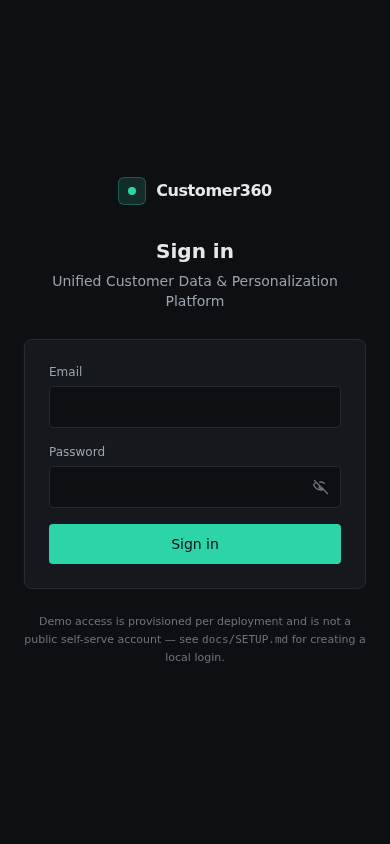
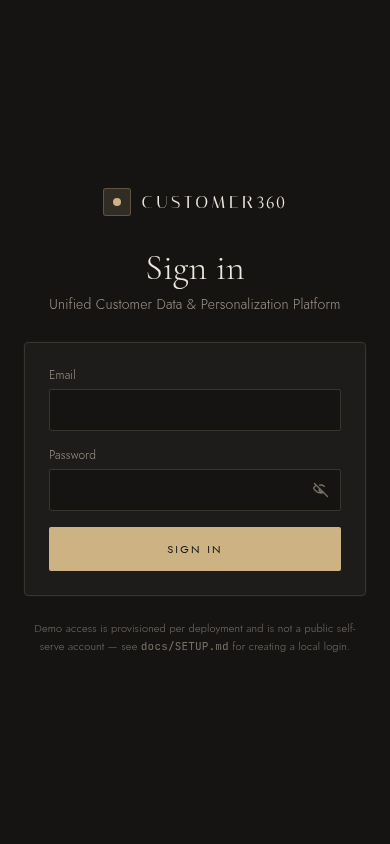
docs+frontend: refresh README screenshots; self-host fonts; typography fixes
Screenshots: all 10 recaptured from the production build talking to the
real FastAPI backend and the real generated dataset in Postgres (no
mocked responses). Adds the Intelligence Assistant (honest "no LLM
configured" state with real tool calls and a retrieved segment
definition) and mobile login to the README table. Customer 360 now
shows a real three-source identity merge.

Frontend fixes found while capturing with the real fonts:
- Fonts are bundled via @fontsource (Italiana, Cormorant, Jost,
  JetBrains Mono) instead of loaded from Google Fonts at runtime.
- Stat/figure numbers use lining figures; Tailwind's per-element reset
  was cancelling the inherited setting, giving old-style digits.
- "360" in the wordmark is set in Cormorant lining figures so it sits
  at cap height next to Italiana capitals.
- Composition pyramid labels the RFM code ("rfm 155"); order statuses
  are displayed case-normalised.

Verified: build + lint pass; 18/18 routing checks and 193/193 UI checks.
Claude-Session: https://claude.ai/code/session_011J4iYUQe2dZV9eYW2ruLeG

diff --git a/frontend/src/components/Shell.tsx b/frontend/src/components/Shell.tsx
@@ -120,7 +120,7 @@ function SidebarContent({ onNavigate }: { onNavigate?: () => void }) {
       <div className="px-4 h-14 flex items-center gap-2.5 border-b border-surface-border shrink-0">
         <BrandMark />
         <div className="min-w-0">
-          <div className="font-display text-[17px] uppercase tracking-[0.18em] text-ink leading-none">Customer360</div>
+          <div className="font-display text-[17px] uppercase tracking-[0.18em] text-ink leading-none">Customer<span className="wordmark-num">360</span></div>
           <div className="font-serif italic text-[13px] text-ink-faint mt-1 leading-none">Data platform console</div>
         </div>
       </div>
@@ -209,7 +209,7 @@ export default function Shell() {
       <div className="lg:hidden sticky top-0 z-30 h-14 flex items-center justify-between px-4 border-b border-surface-border bg-surface-raised/95 backdrop-blur supports-[backdrop-filter]:bg-surface-raised/80">
         <div className="flex items-center gap-2.5">
           <BrandMark size="sm" />
-          <span className="font-display text-base uppercase tracking-[0.18em] text-ink">Customer360</span>
+          <span className="font-display text-base uppercase tracking-[0.18em] text-ink">Customer<span className="wordmark-num">360</span></span>
         </div>
         <button
           ref={menuButtonRef}

diff --git a/frontend/src/pages/CustomerProfile.tsx b/frontend/src/pages/CustomerProfile.tsx
@@ -60,7 +60,7 @@ function CompositionPyramid({ data }: { data: CustomerProfile }) {
   const m = data.metrics;
   const sources = Array.from(new Set(data.identity.identities.map((i) => i.source_system.toUpperCase())));
   const heart = [
-    m?.rfm_segment,
+    m?.rfm_segment ? `rfm ${m.rfm_segment}` : null,
     m?.engagement_score !== null && m?.engagement_score !== undefined ? `engagement ${m.engagement_score}` : null,
     m?.churn_risk_band ? m.churn_risk_band.replace(/_/g, " ") : null,
   ].filter(Boolean) as string[];
@@ -247,7 +247,7 @@ export default function CustomerProfilePage() {
                     <tr key={o.order_id}>
                       <td className="font-mono text-xs text-ink-muted">{o.order_id}</td>
                       <td className="text-ink-muted">{formatDate(o.order_ts)}</td>
-                      <td className="capitalize">{o.order_status}</td>
+                      <td className="capitalize">{o.order_status.toLowerCase()}</td>
                       <td className="capitalize text-ink-muted">{o.channel ?? "—"}</td>
                       <td className="text-right">{formatCurrency(o.revenue_amount)}</td>
                     </tr>

diff --git a/frontend/src/pages/Login.tsx b/frontend/src/pages/Login.tsx
@@ -80,7 +80,7 @@ export default function Login() {
             <div className="h-7 w-7 rounded-full border border-accent/50 flex items-center justify-center">
               <div className="h-1.5 w-1.5 rounded-full bg-accent" />
             </div>
-            <span className="font-display text-lg uppercase tracking-[0.2em] text-ink">Customer360</span>
+            <span className="font-display text-lg uppercase tracking-[0.2em] text-ink">Customer<span className="wordmark-num">360</span></span>
           </div>
         </div>
 
@@ -116,7 +116,7 @@ export default function Login() {
               <div className="h-7 w-7 rounded-md bg-accent/15 border border-accent/30 flex items-center justify-center">
                 <div className="h-2 w-2 rounded-full bg-accent" />
               </div>
-              <span className="font-display text-lg uppercase tracking-[0.2em] text-ink">Customer360</span>
+              <span className="font-display text-lg uppercase tracking-[0.2em] text-ink">Customer<span className="wordmark-num">360</span></span>
             </div>
           </div>
 

diff --git a/frontend/src/index.css b/frontend/src/index.css
@@ -1,4 +1,3 @@
-@import url("https://fonts.googleapis.com/css2?family=Italiana&family=Cormorant:ital,wght@0,300;0,400;0,500;1,300;1,400&family=Jost:wght@300;400;500&family=JetBrains+Mono:wght@400;500&display=swap");
 
 @tailwind base;
 @tailwind components;
@@ -63,8 +62,13 @@
 
   /* Headings: thin serif. Numbers set in serif too, with lining figures. */
   .serif-num {
-    @apply font-serif;
-    font-variant-numeric: lining-nums tabular-nums;
+    @apply font-serif lining-nums tabular-nums;
+  }
+  /* The digits in the wordmark: Italiana's figures are small, so "360" is
+     set in Cormorant lining figures to sit at cap height. */
+  .wordmark-num {
+    @apply font-serif font-normal lining-nums;
+    letter-spacing: 0.08em;
   }
   /* Stat tile numbers size themselves to the tile's own width, so long
      currency values never wrap or clip at any breakpoint. */

diff --git a/frontend/src/main.tsx b/frontend/src/main.tsx
@@ -4,6 +4,18 @@ import { BrowserRouter } from "react-router-dom";
 import { QueryClient, QueryClientProvider } from "@tanstack/react-query";
 import App from "./App";
 import { AuthProvider } from "./context/AuthContext";
+// Fonts are bundled with the app (no third-party font request at runtime).
+import "@fontsource/italiana/400.css";
+import "@fontsource/cormorant/300.css";
+import "@fontsource/cormorant/400.css";
+import "@fontsource/cormorant/500.css";
+import "@fontsource/cormorant/300-italic.css";
+import "@fontsource/cormorant/400-italic.css";
+import "@fontsource/jost/300.css";
+import "@fontsource/jost/400.css";
+import "@fontsource/jost/500.css";
+import "@fontsource/jetbrains-mono/400.css";
+import "@fontsource/jetbrains-mono/500.css";
 import "./index.css";
 
 const queryClient = new QueryClient({

diff --git a/frontend/src/components/Motion.tsx b/frontend/src/components/Motion.tsx
@@ -103,7 +103,7 @@ export function IntroSequence() {
         </div>
         <div className="mt-10 flex font-display uppercase text-ink text-[clamp(44px,9vw,120px)] leading-[0.9] tracking-[0.04em]" aria-hidden="true">
           {word.split("").map((c, i) => (
-            <span key={i} data-intro-char className="inline-block" style={{ opacity: 0 }}>
+            <span key={i} data-intro-char className={`inline-block ${/\d/.test(c) ? "wordmark-num" : ""}`} style={{ opacity: 0 }}>
               {c}
             </span>
           ))}

diff --git a/frontend/src/components/Common.tsx b/frontend/src/components/Common.tsx
@@ -182,7 +182,7 @@ export function AnimatedNumber({
 }) {
   const ref = useCountUp(value, format);
   return (
-    <span ref={ref} className={`tabular-nums ${className}`}>
+    <span ref={ref} className={`lining-nums tabular-nums ${className}`}>
       {value === null || value === undefined ? "—" : format(value)}
     </span>
   );

diff --git a/docs/ADOBE_JD_ALIGNMENT.md b/docs/ADOBE_JD_ALIGNMENT.md
@@ -31,7 +31,7 @@ an interview, since implementation continues after this snapshot.
 | Distributed applications | 🟡 | Spark's programming model (partitions, stages, shuffle, lazy evaluation) is used correctly; execution is `local[*]` on a single machine, not a cluster | `backend/c360/spark/session.py` | Honest limitation, not yet written up in a dedicated cloud-architecture doc | "The pipeline is written the way you'd write it for a cluster — no `.collect()` mid-pipeline, partition-aware joins — but it's never been run against a multi-node cluster. I can speak to what would change (shuffle partition tuning, executor sizing) without claiming I've done it." |
 | JavaScript / TypeScript | ✅ | Entire frontend in strict TypeScript | `frontend/src/**`, `frontend/tsconfig.json` | `tsc` passes in CI | — |
 | React | ✅ | 9-screen operations console, React Router, TanStack Query | `frontend/src/pages/*.tsx`, `frontend/src/App.tsx` | Live at https://customer360-console.vercel.app/ | — |
-| CSS | ✅ | Tailwind-based design system, dark enterprise theme | `frontend/src/index.css`, component-level Tailwind classes | Visual — see `docs/screenshots/` | — |
+| CSS | ✅ | Tailwind-based design system (warm charcoal/champagne theme, self-hosted fonts), Anime.js motion system with reduced-motion support | `frontend/src/index.css`, component-level Tailwind classes | Visual — see `docs/screenshots/` | — |
 | OOP / CS fundamentals | ✅ | Layered architecture (repositories → services → API), typed data contracts, graph algorithms (connected components) hand-rolled | `backend/c360/identity/components.py`, `backend/c360/repositories/*.py` | ADR-12 in `docs/PROJECT_DECISIONS.md` documents choosing hand-rolled components over GraphFrames | "I can explain why min-label-propagation converges and what its worst-case iteration count is." |
 | Java / Java EE / Spring / Hibernate | 🔴 | Not implemented in this phase | — | ADR-23 in `docs/PROJECT_DECISIONS.md` | Deliberately deferred, not forgotten — adding a Spring service or JSP with no architectural need would be the "keyword-collection" outcome this phase explicitly avoided; can discuss Spring/Hibernate/JPA concepts from prior experience/coursework |
 | XML / SOAP-style web services | 🔴 | Not implemented | — | — | REST/JSON only; can discuss XML vs JSON trade-offs conceptually |

diff --git a/README.md b/README.md
@@ -117,9 +117,14 @@ and Section X-B of the [research paper](docs/research-paper/Customer360_IEEE_Pap
 | ![Customer search](docs/screenshots/customer_search.png) Customer Search | ![Customer 360](docs/screenshots/customer_360.png) Customer 360 |
 | ![Data Quality](docs/screenshots/data_quality.png) Data Quality | ![Segments](docs/screenshots/segments.png) Segments |
 | ![Analytics](docs/screenshots/analytics.png) Analytics | ![Pipeline runs](docs/screenshots/pipeline.png) Pipeline Runs |
+| ![Intelligence Assistant](docs/screenshots/assistant.png) Intelligence Assistant (no LLM configured) | ![Login on mobile](docs/screenshots/login_mobile.png) Login, mobile |
 
-All screenshots are of the running application against real generated
-data — none are mockups.
+All screenshots are of the running application (production build, real
+FastAPI backend) against the real generated dataset in PostgreSQL — none are
+mockups or mocked API responses. The assistant screenshot shows the honest
+not-configured state: the three customer tools and the retrieved segment
+definition are real; no model-generated text is shown because no LLM key is
+set.
 
 ## Technology Stack
 
